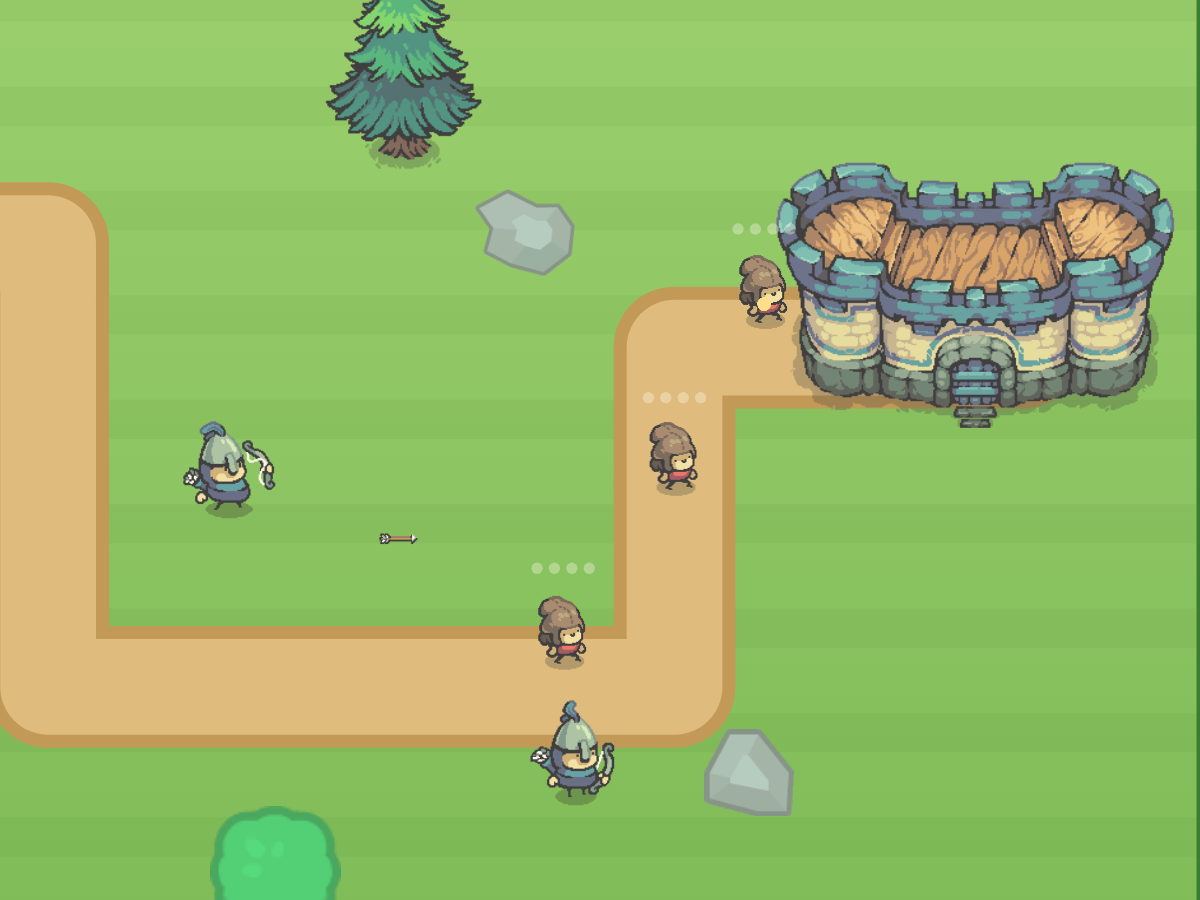
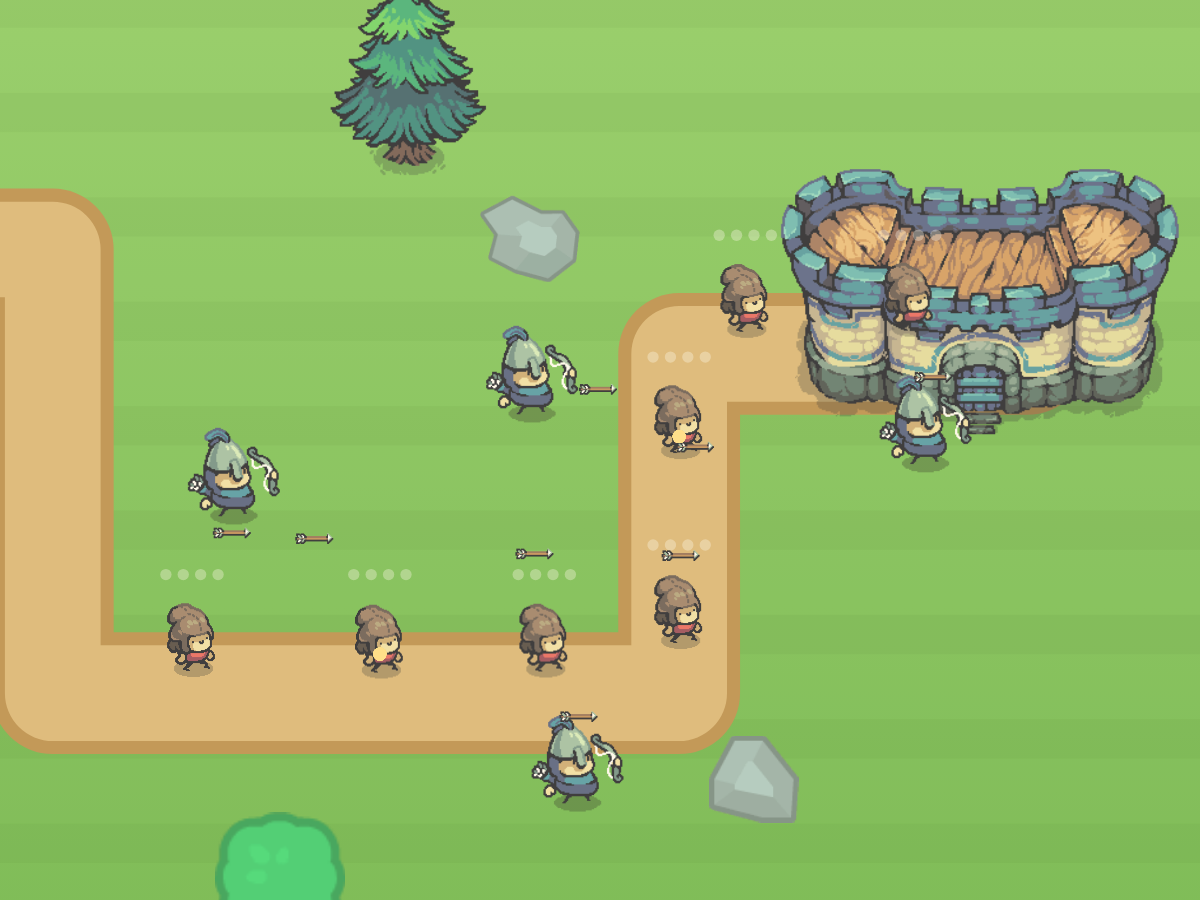
TS0: more action in both tile shots
The first proof followed the recipe literally and read as too quiet.
Both poses now stage a real fight, still with nothing but the games'
own art and effects.

- Survival: six foes closing in at mixed depths, a ten-sparkle volley
  across the frame, a lightning zap connecting to the foe it is
  killing, impact sparks on four of them, three coins spilling.
- Castle Guard: seven goblins marching the road, four archers loosing
  at once, six arrows in the air, two goblins poofing.

Tried and pulled back out: a second lightning arc and a nova shockwave
ring, which read as white ropes and a geometric circle rather than as
action, and a particle explosion big enough to hide the foe underneath
it.

qa-all.mjs: ALL CHECKS PASS.

Claude-Session: https://claude.ai/code/session_01Kb34U7udKzq9aZuocsz4oQ

diff --git a/public/survival-engine.html b/public/survival-engine.html
@@ -833,30 +833,40 @@ function sxw(f){ return W/2 + (f-0.5)*W/SHOT_Z; }
 function syw(f){ return H/2 + (f-0.5)*H/SHOT_Z; }
 function survShotPose(){
   if(!hero||!L) return;
-  // hero: just left of centre, facing the trouble
-  hero.x=sxw(0.34); hero.y=syw(0.56); hero.vx=0; hero.vy=0; invuln=0;
-  // three foes entering from the right, staggered so none hides another
-  while(enemies.length<3){ spawnEnemy(); }
-  enemies.length=3;
-  var spots=[[0.71,0.28],[0.86,0.54],[0.66,0.79]];
+  // hero: just left of centre, mid-fight, facing the trouble
+  hero.x=sxw(0.30); hero.y=syw(0.55); hero.vx=3.4; hero.vy=-0.6; invuln=0;
+  // a swarm closing in from the right, at mixed depths so it reads as a crowd
+  var spots=[[0.62,0.24],[0.79,0.40],[0.93,0.62],[0.71,0.72],[0.55,0.86],[0.86,0.15]];
+  while(enemies.length<spots.length){ spawnEnemy(); }
+  enemies.length=spots.length;
   for(var i=0;i<enemies.length;i++){ var sp=spots[i]; var e=enemies[i];
     e.x=sxw(sp[0]); e.y=syw(sp[1]); e.slowT=0; e.hp=e.maxHp; }
   hero.aim=Math.atan2(enemies[1].y-hero.y, enemies[1].x-hero.x);
-  // one sparkle frozen mid-flight, hero to foe
+  // a whole volley in the air, not one dot: a fan of sparkles at three depths
   projs.length=0;
-  var t0=enemies[1];
-  projs.push({ x:hero.x+(t0.x-hero.x)*0.46, y:hero.y+(t0.y-hero.y)*0.46, vx:0, vy:0,
-               life:999, dmg:stats.projDmg, r:18+stats.projR, pierce:0, hit:new Set() });
-  // one coin treat, low and left, so the quiet corner has something in it
+  var vol=[[1,0.62],[2,0.34],[2,0.58],[2,0.80],[3,0.30],[3,0.55],[4,0.42],[0,0.46],[0,0.72],[5,0.50]];
+  for(var v=0;v<vol.length;v++){ var tg=enemies[vol[v][0]], f=vol[v][1];
+    projs.push({ x:hero.x+(tg.x-hero.x)*f, y:hero.y+(tg.y-hero.y)*f, vx:0, vy:0,
+                 life:999, dmg:stats.projDmg, r:15+stats.projR, pierce:0, hit:new Set() }); }
+  // one foe taking a hit right now: a single lightning arc, so it reads as a zap
+  // rather than a pair of white ropes across the picture
+  bolts.length=0; parts.length=0; rings.length=0;
+  bolts.push({ x1:hero.x, y1:hero.y, x2:enemies[1].x, y2:enemies[1].y, life:9 });
+  // coins spilling from the foes that just popped
   gems.length=0;
-  var gx=sxw(0.27);
-  gems.push({ x:gx, y:syw(0.74), tier:2, val:tierVal(2), vx:0, vy:0, got:false });
+  var gx=sxw(0.24);
+  gems.push({ x:gx,        y:syw(0.74), tier:2, val:tierVal(2), vx:0, vy:0, got:false });
+  gems.push({ x:sxw(0.45), y:syw(0.86), tier:1, val:tierVal(1), vx:0, vy:0, got:false });
+  gems.push({ x:sxw(0.63), y:syw(0.58), tier:1, val:tierVal(1), vx:0, vy:0, got:false });
   // BR.coin spins on the clock, so pick the instant where it faces us square on
   SHOT_T=(2*Math.PI*Math.ceil((gx+1)/(2*Math.PI)) - gx)/3;
-  // nothing else on screen: no drops, no rings, no boss bar, no tutorial
-  drops.length=0; rings.length=0; holes.length=0; bolts.length=0; parts.length=0;
-  boss=null; bossSpawned=false; helpOpen=false;
-  if(BM&&fx&&BM.reset) { try{ BM.reset(fx); }catch(e){} }
+  drops.length=0; holes.length=0; boss=null; bossSpawned=false; helpOpen=false;
+  // the impact sparks go in LAST, so nothing above clears them
+  if(BM&&fx&&BM.reset){ try{ BM.reset(fx); }catch(e){} }
+  burst(enemies[1].x, enemies[1].y, "#cfeaff", 22);
+  burst(enemies[3].x, enemies[3].y, P.spark, 22);
+  burst(enemies[4].x, enemies[4].y, P.spark, 16);
+  burst(enemies[2].x, enemies[2].y, P.spark, 12);
   shotPosed=true;
 }
 function survShotTick(){

diff --git a/public/castle-guard.html b/public/castle-guard.html
@@ -1195,10 +1195,10 @@ function cgShotStart() {
   const n = GAME_CONFIG.levels.length;
   startLevel(Math.max(0, Math.min(n - 1, TS ? TS.level : 0)));
   S.coins = 999;                       // the photo is not a game: never blocked on economy
-  const a = pointAtRaw(S.W.segs, S.W.total, S.W.total * 0.56);
-  const b = pointAtRaw(S.W.segs, S.W.total, S.W.total * 0.70);
-  cgShotPlaceArcher(a.x / LW, a.y / LH);   // the "hero", guarding the road to the castle
-  cgShotPlaceArcher(b.x / LW, b.y / LH);   // a second one for depth
+  [0.54, 0.66, 0.78, 0.88].forEach((f) => {
+    const p = pointAtRaw(S.W.segs, S.W.total, S.W.total * f);
+    cgShotPlaceArcher(p.x / LW, p.y / LH);          // the road properly defended
+  });
 }
 function cgShotPlaceArcher(fx0, fy0) {
   const tx = LW * fx0, ty = LH * fy0;
@@ -1213,25 +1213,33 @@ function cgShotSpawnBaddie() {
 }
 function cgShotPose() {
   if (!S) return;
-  while (S.baddies.length < 3) cgShotSpawnBaddie();
-  S.baddies.length = 3;
-  const picks = [S.W.total * 0.66, S.W.total * 0.78, S.W.total * 0.89];
+  // a whole column of goblins on the road, not a token three
+  const picks = [0.50, 0.58, 0.65, 0.72, 0.80, 0.88, 0.95].map(f => S.W.total * f);
+  while (S.baddies.length < picks.length) cgShotSpawnBaddie();
+  S.baddies.length = picks.length;
   S.baddies.forEach((b, i) => { b.dist = picks[i]; b.hp = b.max; b.poof = 0; b.hit = 0; b.gone = false; });
-  // one arrow frozen mid-flight, archer to the nearest goblin
+  // every archer loosing an arrow at once: arrows in the air all down the road
   S.arrows.length = 0;
-  const g = S.defenders[0], b0 = S.baddies[0];
-  if (g && b0) {
-    const p = pointAtRaw(S.W.segs, S.W.total, b0.dist);
-    const ang = Math.atan2((p.y - 34) - (g.y - 30), p.x - (g.x + 8));
-    S.arrows.push({ x: g.x + 8 + (p.x - g.x) * 0.45, y: (g.y - 30) + ((p.y - 34) - (g.y - 30)) * 0.45,
-      vx: Math.cos(ang) * 560, vy: Math.sin(ang) * 560, target: b0, dmg: 1, life: 1.4 });
-    g.shootT = 0.12; g.face = 1;       // caught in the shooting pose
-  }
+  S.defenders.forEach((g, gi) => {
+    for (let k = 0; k < 2; k++) {
+      const b = S.baddies[(gi * 2 + k * 3) % S.baddies.length];
+      if (!b) continue;
+      const p = pointAtRaw(S.W.segs, S.W.total, b.dist);
+      const ax = g.x + 8, ay = g.y - 30, bx = p.x, by = p.y - 34;
+      const ang = Math.atan2(by - ay, bx - ax), f = 0.36 + k * 0.30;
+      S.arrows.push({ x: ax + (bx - ax) * f, y: ay + (by - ay) * f,
+        vx: Math.cos(ang) * 560, vy: Math.sin(ang) * 560, target: b, dmg: 1, life: 1.4 });
+    }
+    g.shootT = 0.12; g.face = 1;        // every one caught in the shooting pose
+  });
   S.bombs.length = 0;
   S.tutSlot = -1;                       // no tutorial hand, no glowing "tap here"
-  // a puff of the game's own sparkles fills the quiet corner (no pop word)
-  if (BM && b0) { const p = pointAtRaw(S.W.segs, S.W.total, S.baddies[2].dist);
-    BM.explode(fx, p.x, p.y - 20, "#ffe08a", { n: 14 }); }
+  // two goblins poofing right now, in the game's own sparkles (no pop word)
+  if (BM) {
+    [1, 4].forEach((i) => { const b = S.baddies[i]; if (!b) return;
+      const p = pointAtRaw(S.W.segs, S.W.total, b.dist);
+      BM.explode(fx, p.x, p.y - 18, "#ffe08a", { n: 16 }); });
+  }
   shotPosed = true;
 }
 function cgShotTick(dt) {

diff --git a/public/tile-shots.html b/public/tile-shots.html
@@ -55,7 +55,7 @@
 <main>
   <section class="game">
     <h2>Space Survival</h2>
-    <p class="sub">The dark world. Sunset sky, the jetpack hero, three cloud foes, one sparkle mid-flight, one coin.</p>
+    <p class="sub">The dark world. Sunset sky, the jetpack hero mid-fight, six foes closing in, a volley of sparkles in the air, a lightning zap connecting, coins spilling.</p>
     <div class="row">
       <figure><img src="/tile-shots/survival.png" alt="Space Survival, new photo with the colour wash">
         <figcaption><span class="tag new">new</span> with the purple wash</figcaption></figure>
@@ -76,7 +76,7 @@
 
   <section class="game">
     <h2>Castle Guard</h2>
-    <p class="sub">The bright world. The castle on the right, two archers, three goblins on the road, one arrow mid-flight.</p>
+    <p class="sub">The bright world. The castle on the right, four archers all loosing at once, seven goblins marching the road, six arrows in the air.</p>
     <div class="row">
       <figure><img src="/tile-shots/castleguard.png" alt="Castle Guard, new photo with the colour wash">
         <figcaption><span class="tag new">new</span> with the green wash</figcaption></figure>

diff --git a/SESSION-LOG.md b/SESSION-LOG.md
@@ -38,6 +38,17 @@ camera, which also makes every shot reproducible.
    device pixels, so shooting bigger only inflated the file (2.9 MB down to 547 KB)
    without adding detail. 1200x900 is what the card asked for.
 
+**Second pass: more action.** The first proof was correct and quiet — one hero, three
+foes, one thing in the air. Mike asked for more, so the poses now stage a real fight.
+Survival: six foes closing in at mixed depths, a ten-sparkle volley across the frame,
+a lightning zap connecting to the foe it is killing, impact sparks on four of them,
+three coins spilling. Castle Guard: seven goblins marching the road, four archers
+loosing at once, six arrows in the air, two goblins poofing. Both still use nothing
+but the game's own art and its own effects. Two things were tried and pulled back
+out: a second lightning arc and a nova shockwave ring read as white ropes and a
+geometric circle rather than as action, and a big particle explosion covered the foe
+it was meant to be killing.
+
 **Open for Mike, on `/tile-shots`.** Wash or no wash. Real screenshot or the AI
 painting. Both variants are on the page.
 

diff --git a/README.md b/README.md
@@ -38,6 +38,14 @@ happens after approval.
 would replace, plus how it reads at real tile size. Nothing on the live site has
 changed.
 
+**How busy a tile should be.** The first proof followed the recipe literally (three
+foes, one thing mid-flight) and read as too quiet. The poses now stage a real fight:
+six foes and a sparkle volley on Survival, seven goblins and six arrows on Castle
+Guard. Worth knowing for TS1-TS3 — the recipe's counts are a floor, not a target.
+Effects that did not survive: a second lightning arc and a nova ring, which read as
+white ropes and a geometric circle, and a particle explosion big enough to hide the
+foe underneath it.
+
 **Two findings for the rollout.** The wash reads well on Space Survival (purple over
 a sunset sky) and all but disappears on Castle Guard (green over grass), so wash
 strength is a per-game question, not one setting. And tower defence has no coin on
